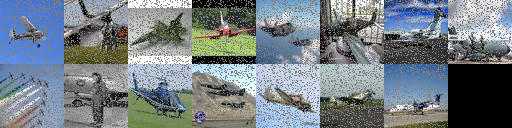
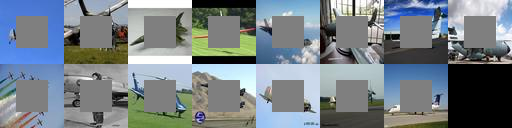
update_final
update_final

Changed region(s): [[0.0, 0.0, 1.0, 1.0]]

diff --git a/README.md b/README.md
@@ -32,7 +32,7 @@
 </p>
 
 <p align="center">
-  <img src="https://github.com/rexwangcc/RecoverGAN/blob/master/Final_version/results/cat_masked.png?raw=true" width="70%"/>
+  <img src="https://github.com/rexwangcc/RecoverGAN/blob/master/Final_version/results/cat_masked_random.png?raw=true" width="70%"/>
 </p>
 
 <p align="center">
@@ -60,7 +60,7 @@
 </p>
 
 <p align="center">
-  <img src="https://github.com/rexwangcc/RecoverGAN/blob/master/Final_version/results/aircraft_masked.png?raw=true" width="70%"/>
+  <img src="https://github.com/rexwangcc/RecoverGAN/blob/master/Final_version/results/aircraft_masked_random.png?raw=true" width="70%"/>
 </p>
 
 <p align="center">
